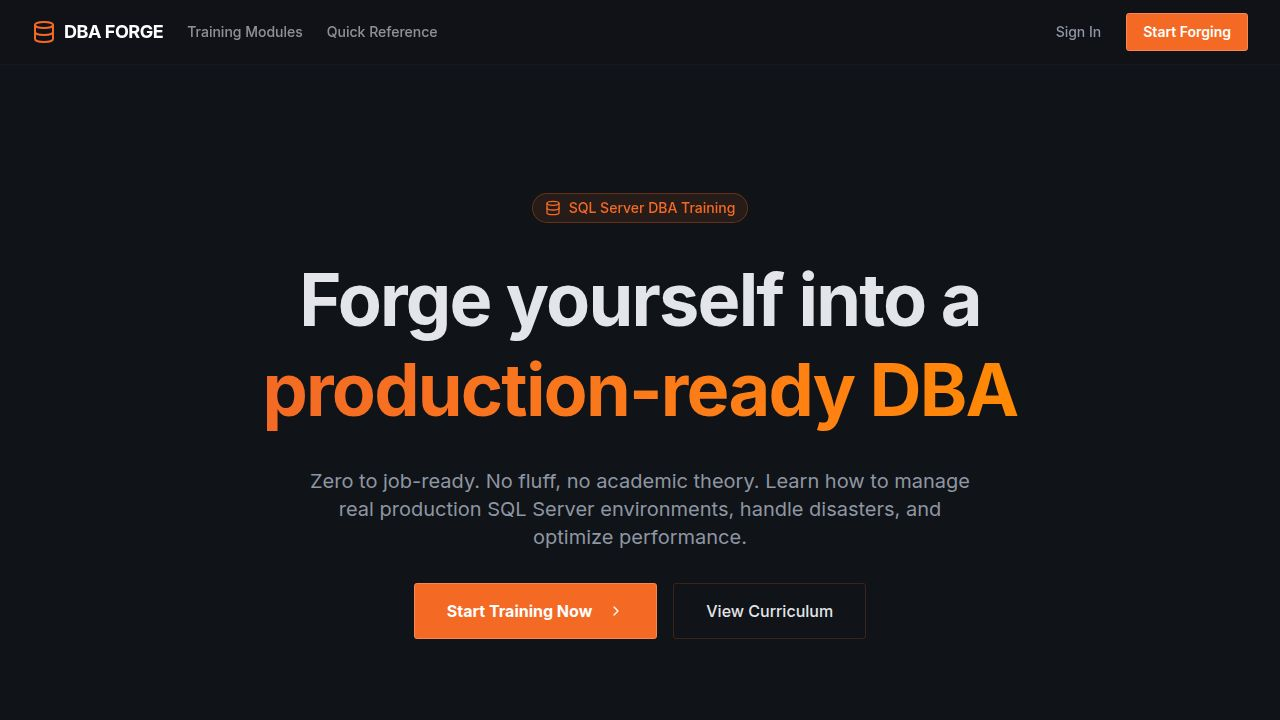
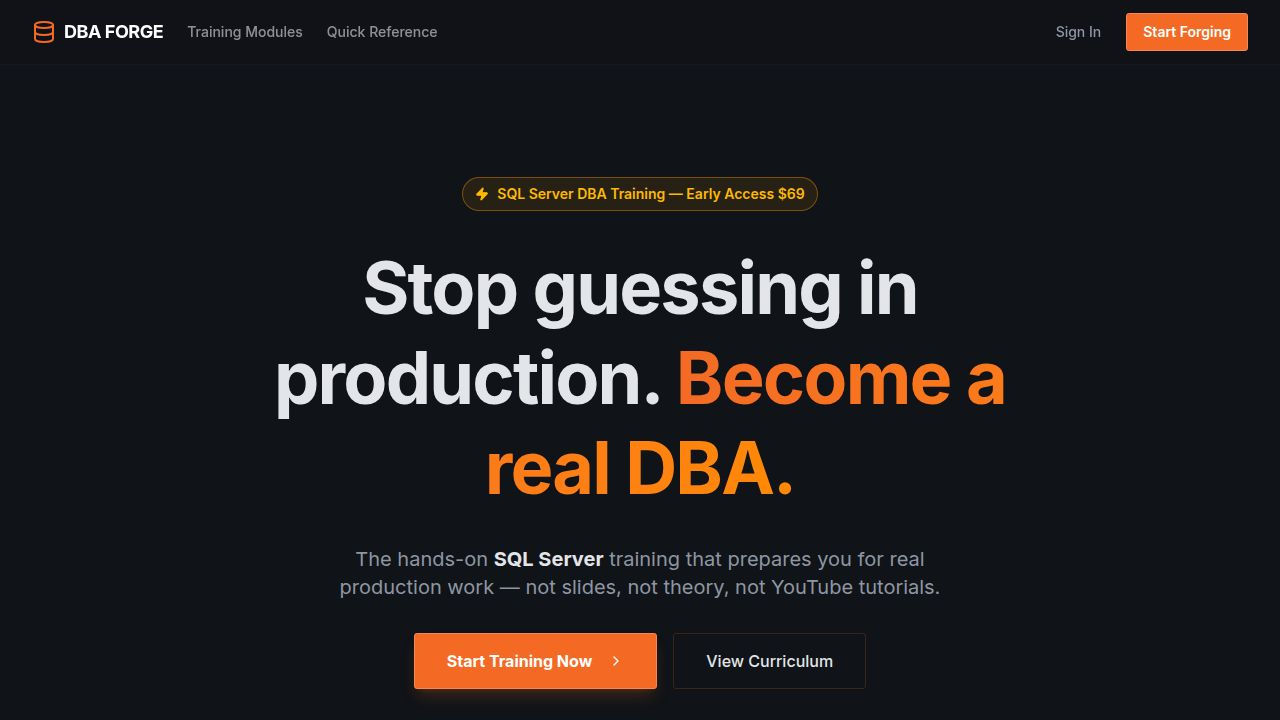
Add SQL Server to homepage title and training description
Update homepage hero section to include "SQL Server DBA Training" in the badge and specify "SQL Server" in the subtitle, while also updating the opengraph image.

Replit-Commit-Author: Agent
Replit-Commit-Session-Id: cfe817b4-484a-41d4-90bf-c5c02d12e79a
Replit-Commit-Checkpoint-Type: full_checkpoint
Replit-Commit-Event-Id: 66c262d3-7fe6-40e6-a78a-de29027dd302
Replit-Commit-Screenshot-Url: https://storage.googleapis.com/screenshot-production-us-central1/aa09679c-bac1-443b-8590-53223fd2d352/cfe817b4-484a-41d4-90bf-c5c02d12e79a/PGa02iX
Replit-Helium-Checkpoint-Created: true

diff --git a/artifacts/dba-forge/src/pages/home.tsx b/artifacts/dba-forge/src/pages/home.tsx
@@ -93,7 +93,7 @@ export default function Home() {
 
             <div className="inline-flex items-center gap-2 rounded-full border border-amber-500/40 bg-amber-500/10 px-3 py-1.5 text-sm font-semibold text-amber-400">
               <Zap className="h-3.5 w-3.5 fill-amber-400" />
-              Early Access — $69 (price goes up soon)
+              SQL Server DBA Training — Early Access $69
             </div>
 
             <h1 className="text-4xl md:text-6xl lg:text-7xl font-extrabold tracking-tight text-foreground leading-tight">
@@ -104,7 +104,7 @@ export default function Home() {
             </h1>
 
             <p className="text-lg md:text-xl text-muted-foreground max-w-2xl">
-              From zero to job-ready — <strong className="text-foreground">without wasting years</strong> on tutorials that never prepare you for what actually happens in production.
+              The hands-on <strong className="text-foreground">SQL Server</strong> training that prepares you for real production work — not slides, not theory, not YouTube tutorials.
             </p>
 
             <div className="flex flex-col sm:flex-row gap-4 w-full sm:w-auto">
